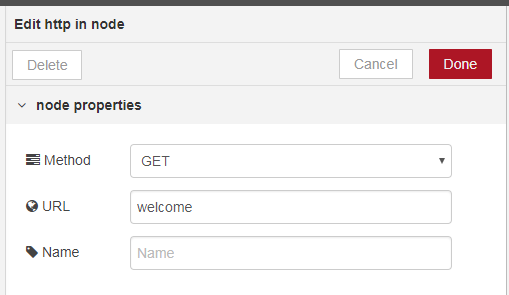
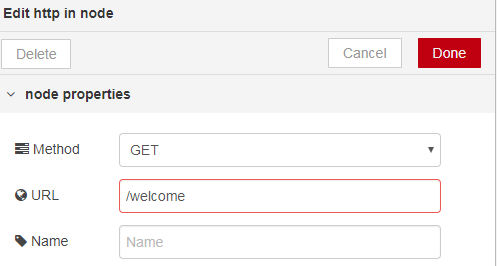
Updated lab2

diff --git a/lab2.md b/lab2.md
@@ -1,7 +1,7 @@
 # Lab 2: Going Online with HTTP
 1.	Insert a http input node.   
 ![Inject Node](./images/inject-node-palette.png)
-2.	Double click on the http input node and set the URL property to welcome.   
+2.	Double click on the http input node and set the URL property to "/welcome".   
 ![Http input config](./images/http-input-node-config.png)
 3.	Insert a change node. Change nodes can be found under the function category of the palette.   
 ![Change node](./images/change-node-palette.png)
